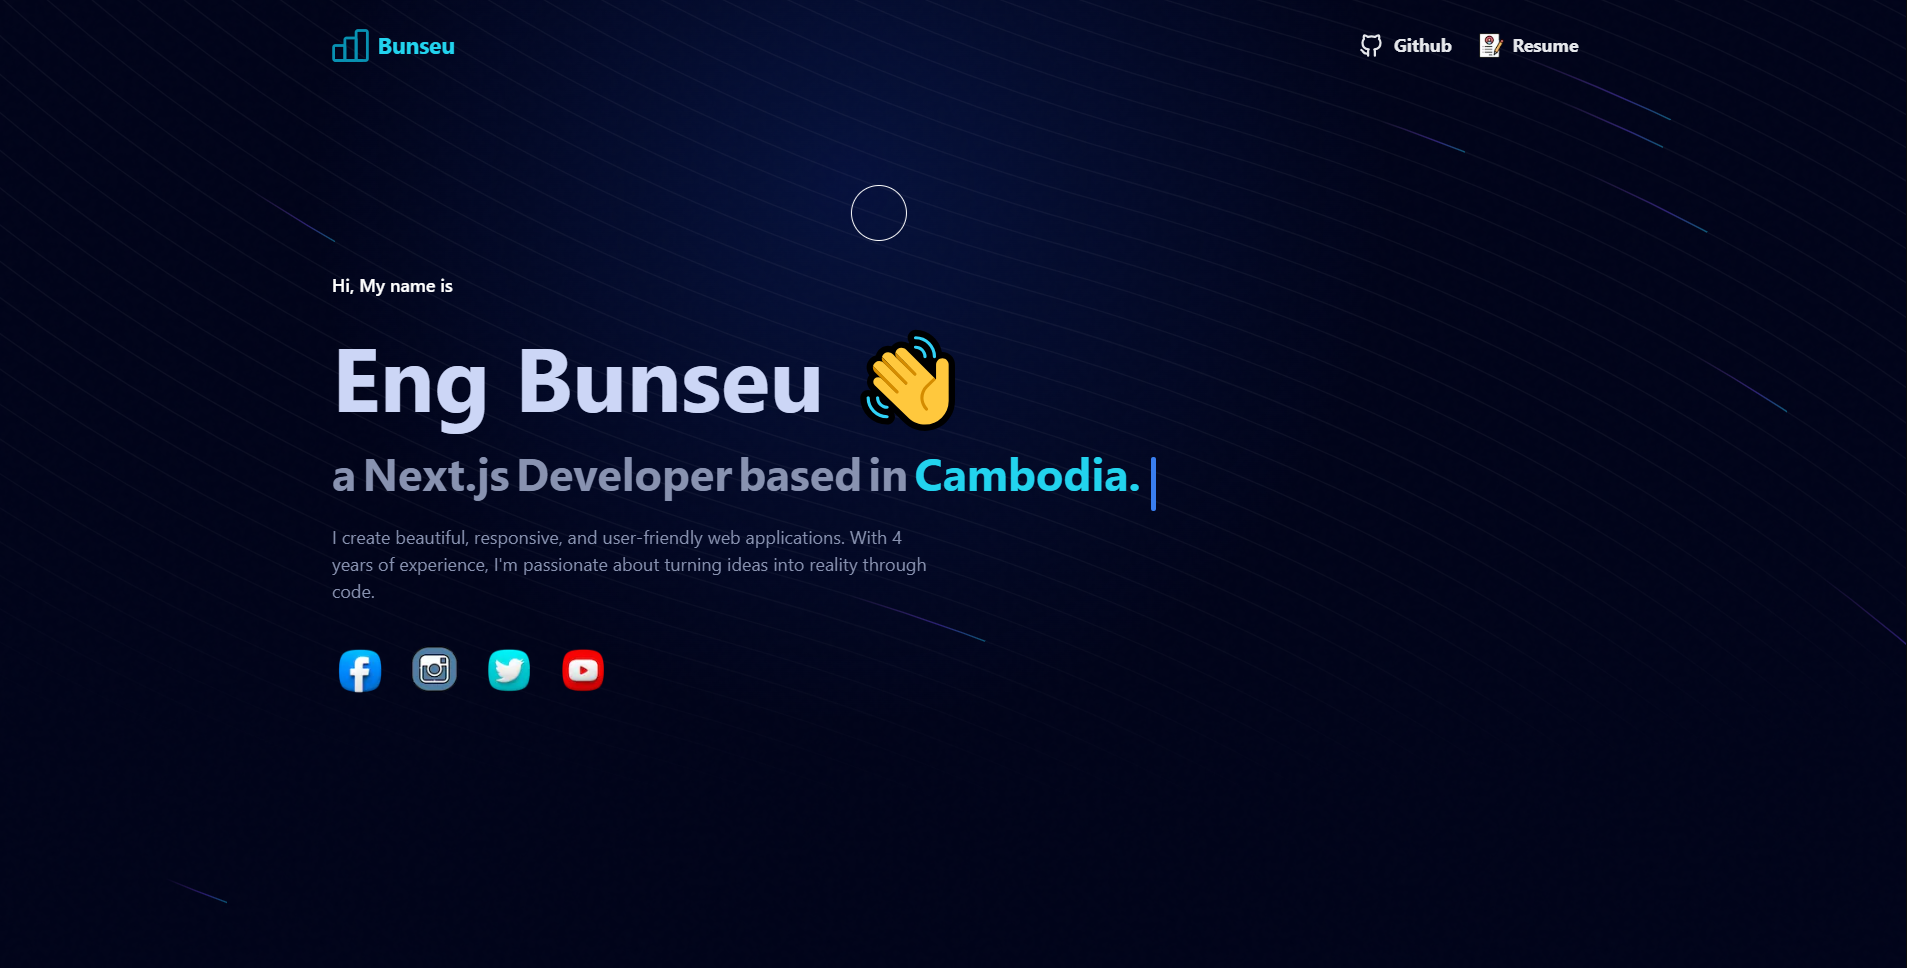
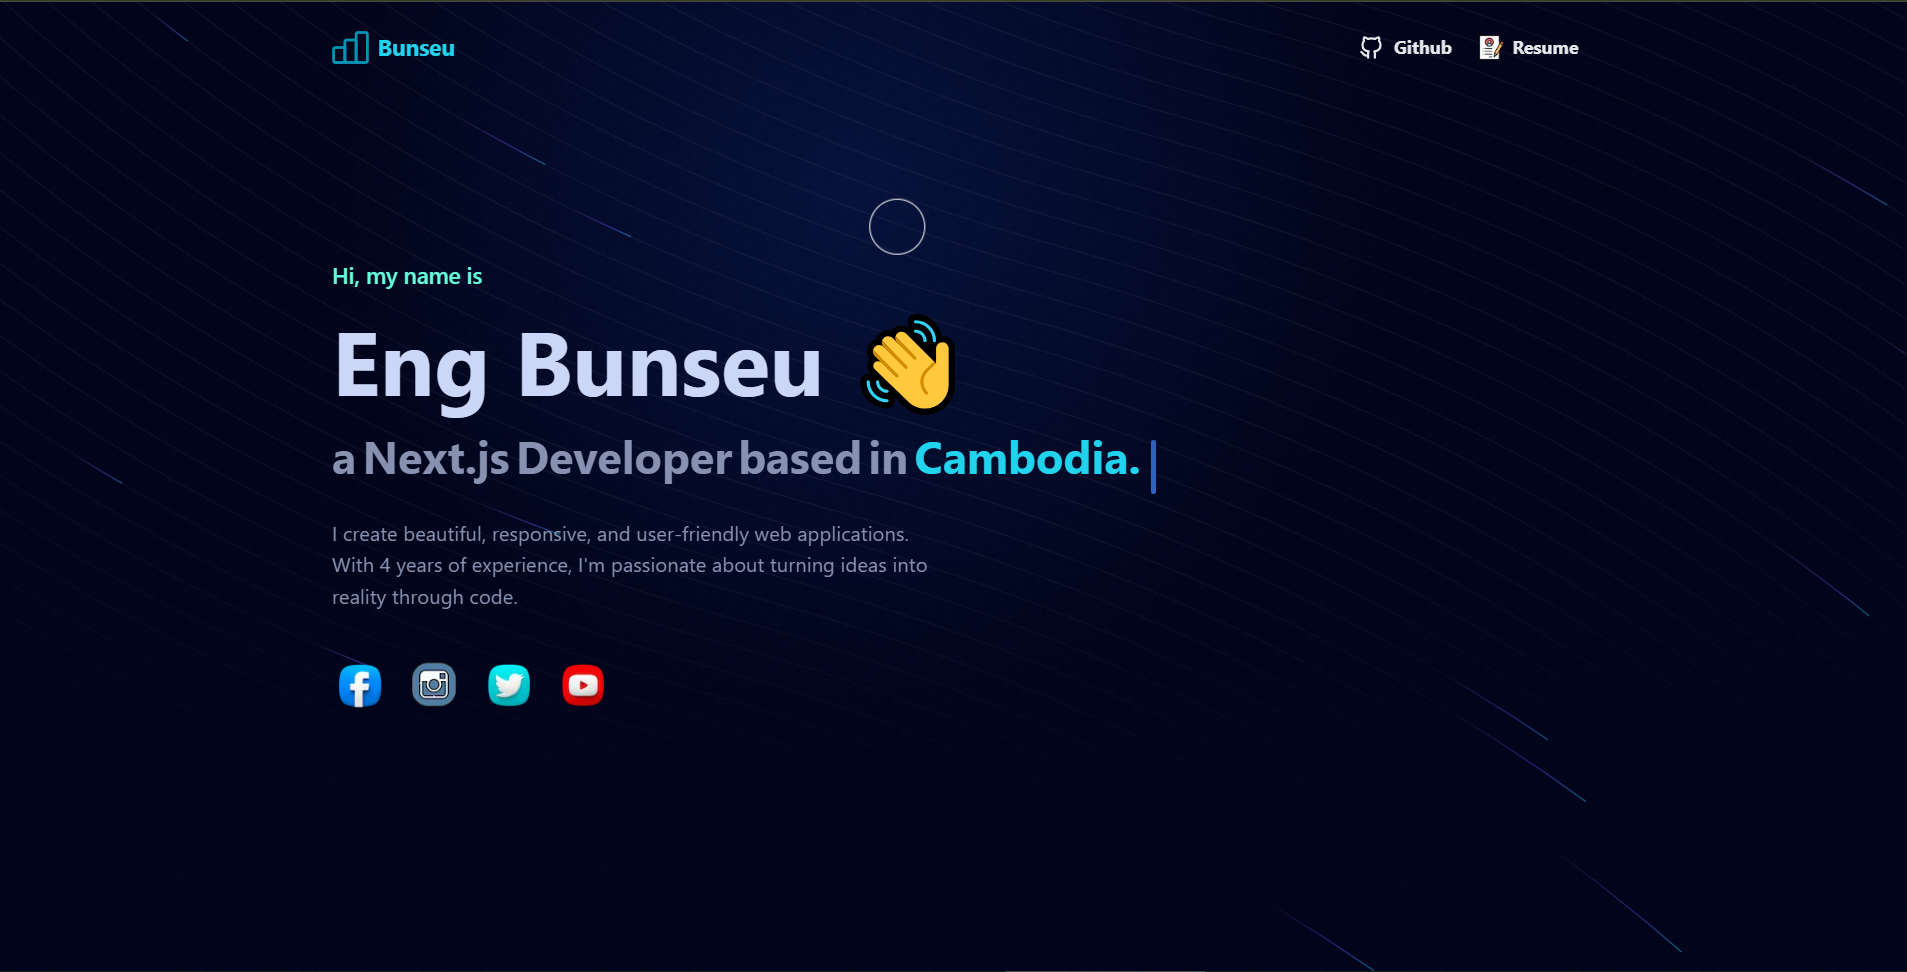
Fixing Type Error

diff --git a/components/Hero.tsx b/components/Hero.tsx
@@ -19,7 +19,7 @@ export default function Hero() {
   return (
     <section className="relative w-full h-screen flex items-center justify-center overflow-hidden">
       <BackgroundBeams className="absolute inset-0" />
-      <div className="relative z-10 w-full max-w-6xl mx-auto px-6 py-12 md:py-24">
+      <div className="relative z-10 w-full max-w-6xl mx-auto px-14 md:px-6 md:py-24">
         <div className="flex flex-col md:flex-row items-center justify-between">
           <motion.div
             className="w-full mb-8 md:mb-0"
@@ -28,18 +28,18 @@ export default function Hero() {
             transition={{ duration: 0.5 }}
           >
             <div>
-              <p className="text-white dark:text-neutral-200 font-semibold mb-2">
-                Hi, My name is{" "}
+              <p className="text-[#64ffda] dark:text-neutral-200 text-xl font-semibold mb-5 md:mb-0">
+                Hi, my name is{" "}
               </p>
               <p
-                className="font-bold text-[#ccd6f6]"
+                className="font-bold text-[#ccd6f6] mb-1"
                 style={{ fontSize: "clamp(40px, 8vw, 80px)" }}
               >
                 Eng Bunseu 👋
               </p>
               <TypewriterEffectSmooth words={words} />
               <div>
-                <p className="max-w-[540px] text-md text-[#8892b0] mb-8">
+                <p className="max-w-[540px] text-lg text-[#8892b0] mt-5 mb-10">
                   I create beautiful, responsive, and user-friendly web
                   applications. With 4 years of experience, I&#39;m passionate
                   about turning ideas into reality through code.

diff --git a/app/layout.tsx b/app/layout.tsx
@@ -5,19 +5,20 @@ import MouseTrackingBackground from "@/components/ui/BackgroundGradient";
 import { Roboto, Noto_Sans } from "next/font/google";
 import LoadingAnimation from "@/components/ui/Loading";
 
-export const roboto = Roboto({
+const roboto = Roboto({
   weight: ["400", "700"],
   subsets: ["latin"],
   display: "swap",
 });
 
-export const notoSans = Noto_Sans({
+const notoSans = Noto_Sans({
   weight: ["400", "700"],
   subsets: ["latin"],
   display: "swap",
 });
 
 export const metadata: Metadata = {
+  metadataBase: new URL("https://bunseueng.vercel.app"),
   title: "Bunseu's Portfolio",
   description:
     "Explore the portfolio of a passionate web developer specializing in Next.js, React, and JavaScript. Check out my projects and experience in building efficient, responsive web applications.",
